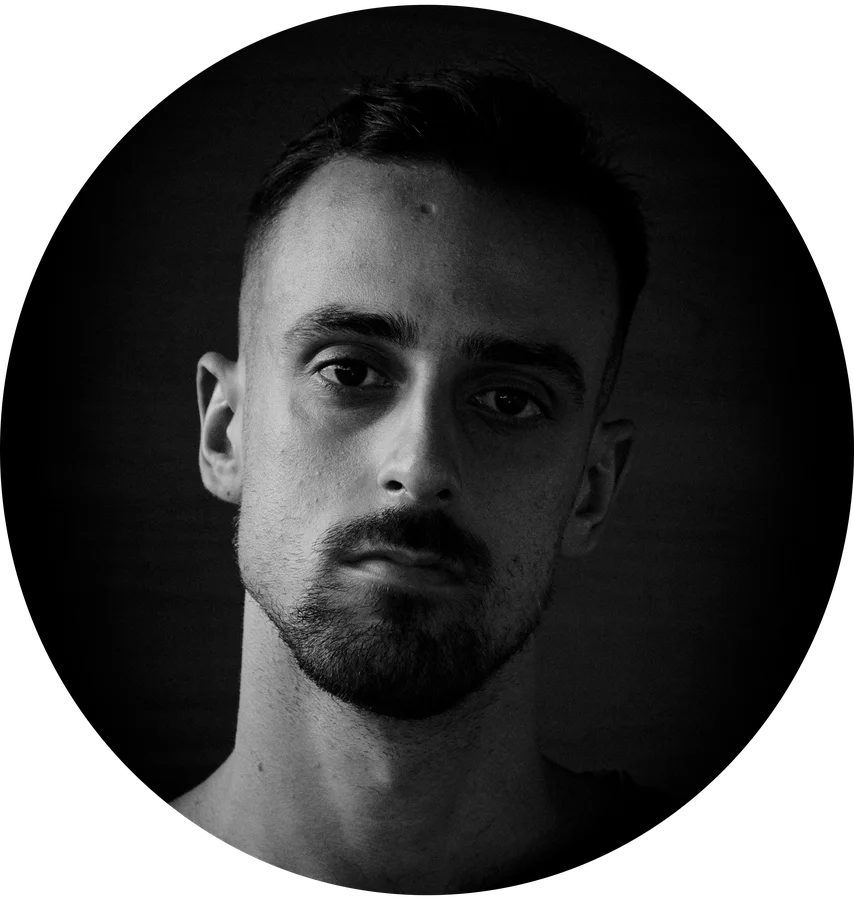
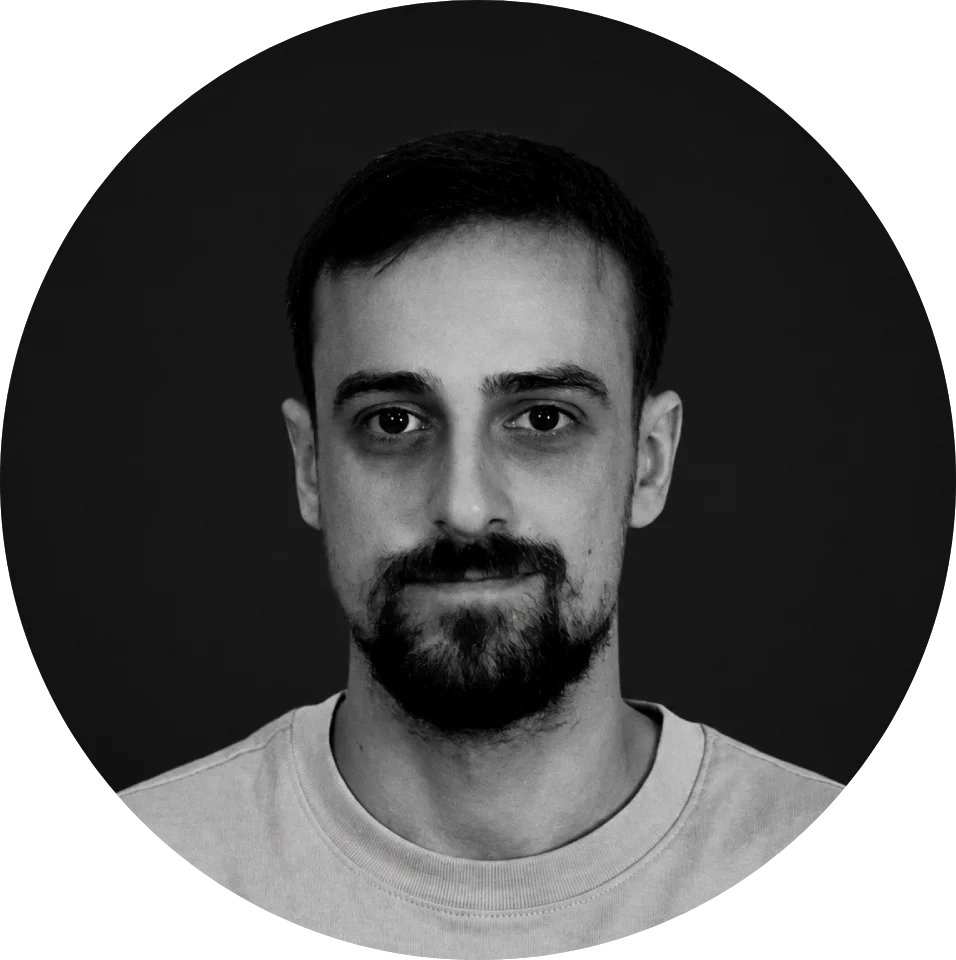
Serve the about photo as WebP and deconflict subpage titles
Performance: me.png is 903 KB and was the LCP element on both about pages,
while the 45 KB me.webp was only referenced from og:image meta tags. The
WebP was also stale (854x900 vs the PNG's 956x960), so it is regenerated
from the current PNG and the four <img> tags are wrapped in <picture>.
Explicit width/height added to reserve layout space. Verified: browsers now
fetch only the WebP, and the PNG is never requested.

SEO: about.html and contact.html both ended their title with "Original
Soundtrack Composer in Murcia", the homepage's primary keyword, so three
pages competed for one term. Each subpage now targets a distinct intent.
The Spanish pages additionally shipped English og:title/twitter:title; that
came from update_simple_pages() hardcoding the English suffix regardless of
language, so it now derives the value from the page's real <title> and the
two can no longer drift apart.

Also fixes Spanish alt text on the English homepage.

diff --git a/docs/es/about.html b/docs/es/about.html
@@ -20,18 +20,18 @@
   <link rel="alternate" hreflang="es" href="https://www.dolmosmusic.com/es/about.html" />
   <link rel="alternate" hreflang="x-default" href="https://www.dolmosmusic.com/about.html" />
 
-  <title>Sobre mí | DolmosMusic - Compositor de Bandas Sonoras en Murcia</title>
+  <title>Sobre mí | Diego Olmos, el compositor de DolmosMusic</title>
 
   <!-- Open Graph / social sharing -->
   <meta property="og:type" content="website" />
   <meta property="og:locale" content="es_ES" />
   <meta property="og:url" content="https://www.dolmosmusic.com/es/about.html" />
   <meta property="og:site_name" content="DolmosMusic" />
-  <meta property="og:title" content="Sobre mí | DolmosMusic - Original Soundtrack Composer in Murcia" />
+  <meta property="og:title" content="Sobre mí | Diego Olmos, el compositor de DolmosMusic" />
   <meta property="og:description" content="Diego Olmos (DolmosMusic), compositor y productor musical en Murcia, España." />
   <meta property="og:image" content="https://www.dolmosmusic.com/images/me.webp" />
   <meta name="twitter:card" content="summary_large_image" />
-  <meta name="twitter:title" content="Sobre mí | DolmosMusic - Original Soundtrack Composer in Murcia" />
+  <meta name="twitter:title" content="Sobre mí | Diego Olmos, el compositor de DolmosMusic" />
   <meta name="twitter:description" content="Diego Olmos (DolmosMusic), compositor y productor musical en Murcia, España." />
   <meta name="twitter:image" content="https://www.dolmosmusic.com/images/me.webp" />
 
@@ -100,7 +100,10 @@
     <div class="container-fluid">
       <div class="box">
         <div class="img-box b2">
-          <img src="../images/me.png" style="height: 320px; width: auto; margin: 30px; margin-right: 50px;" alt="Diego Olmos, compositor y productor musical en Murcia">
+          <picture>
+            <source srcset="../images/me.webp" type="image/webp">
+            <img src="../images/me.png" width="956" height="960" style="height: 320px; width: auto; margin: 30px; margin-right: 50px;" alt="Diego Olmos, compositor y productor musical en Murcia">
+          </picture>
         </div>
         <div class="detail-box">
           <h1>Sobre Diego Olmos (DolmosMusic)</h1>

diff --git a/docs/about.html b/docs/about.html
@@ -20,18 +20,18 @@
   <link rel="alternate" hreflang="es" href="https://www.dolmosmusic.com/es/about.html" />
   <link rel="alternate" hreflang="x-default" href="https://www.dolmosmusic.com/about.html" />
 
-  <title>About | DolmosMusic - Original Soundtrack Composer in Murcia</title>
+  <title>About Diego Olmos | The Composer Behind DolmosMusic</title>
 
   <!-- Open Graph / social sharing -->
   <meta property="og:type" content="website" />
   <meta property="og:locale" content="en_US" />
   <meta property="og:url" content="https://www.dolmosmusic.com/about.html" />
   <meta property="og:site_name" content="DolmosMusic" />
-  <meta property="og:title" content="About | DolmosMusic - Original Soundtrack Composer in Murcia" />
+  <meta property="og:title" content="About Diego Olmos | The Composer Behind DolmosMusic" />
   <meta property="og:description" content="Diego Olmos (DolmosMusic), composer and music producer in Murcia, Spain." />
   <meta property="og:image" content="https://www.dolmosmusic.com/images/me.webp" />
   <meta name="twitter:card" content="summary_large_image" />
-  <meta name="twitter:title" content="About | DolmosMusic - Original Soundtrack Composer in Murcia" />
+  <meta name="twitter:title" content="About Diego Olmos | The Composer Behind DolmosMusic" />
   <meta name="twitter:description" content="Diego Olmos (DolmosMusic), composer and music producer in Murcia, Spain." />
   <meta name="twitter:image" content="https://www.dolmosmusic.com/images/me.webp" />
 
@@ -100,7 +100,10 @@
     <div class="container-fluid">
       <div class="box">
         <div class="img-box b2">
-          <img src="images/me.png" style="height: 320px; width: auto; margin: 30px; margin-right: 50px;" alt="Diego Olmos, composer and music producer in Murcia">
+          <picture>
+            <source srcset="images/me.webp" type="image/webp">
+            <img src="images/me.png" width="956" height="960" style="height: 320px; width: auto; margin: 30px; margin-right: 50px;" alt="Diego Olmos, composer and music producer in Murcia">
+          </picture>
         </div>
         <div class="detail-box">
           <h1>About Diego Olmos (DolmosMusic)</h1>

diff --git a/docs/es/contact.html b/docs/es/contact.html
@@ -20,18 +20,18 @@
   <link rel="alternate" hreflang="es" href="https://www.dolmosmusic.com/es/contact.html" />
   <link rel="alternate" hreflang="x-default" href="https://www.dolmosmusic.com/contact.html" />
 
-  <title>Contacto | DolmosMusic - Compositor de Bandas Sonoras en Murcia</title>
+  <title>Contacto | Presupuesto para tu banda sonora - DolmosMusic</title>
 
   <!-- Open Graph / social sharing -->
   <meta property="og:type" content="website" />
   <meta property="og:locale" content="es_ES" />
   <meta property="og:url" content="https://www.dolmosmusic.com/es/contact.html" />
   <meta property="og:site_name" content="DolmosMusic" />
-  <meta property="og:title" content="Contacto | DolmosMusic - Original Soundtrack Composer in Murcia" />
+  <meta property="og:title" content="Contacto | Presupuesto para tu banda sonora - DolmosMusic" />
   <meta property="og:description" content="Diego Olmos (DolmosMusic), compositor y productor musical en Murcia, España." />
   <meta property="og:image" content="https://www.dolmosmusic.com/images/me.webp" />
   <meta name="twitter:card" content="summary_large_image" />
-  <meta name="twitter:title" content="Contacto | DolmosMusic - Original Soundtrack Composer in Murcia" />
+  <meta name="twitter:title" content="Contacto | Presupuesto para tu banda sonora - DolmosMusic" />
   <meta name="twitter:description" content="Diego Olmos (DolmosMusic), compositor y productor musical en Murcia, España." />
   <meta name="twitter:image" content="https://www.dolmosmusic.com/images/me.webp" />
 

diff --git a/docs/contact.html b/docs/contact.html
@@ -20,18 +20,18 @@
   <link rel="alternate" hreflang="es" href="https://www.dolmosmusic.com/es/contact.html" />
   <link rel="alternate" hreflang="x-default" href="https://www.dolmosmusic.com/contact.html" />
 
-  <title>Contact | DolmosMusic - Original Soundtrack Composer in Murcia</title>
+  <title>Contact | Get a Quote for Your Soundtrack - DolmosMusic</title>
 
   <!-- Open Graph / social sharing -->
   <meta property="og:type" content="website" />
   <meta property="og:locale" content="en_US" />
   <meta property="og:url" content="https://www.dolmosmusic.com/contact.html" />
   <meta property="og:site_name" content="DolmosMusic" />
-  <meta property="og:title" content="Contact | DolmosMusic - Original Soundtrack Composer in Murcia" />
+  <meta property="og:title" content="Contact | Get a Quote for Your Soundtrack - DolmosMusic" />
   <meta property="og:description" content="Diego Olmos (DolmosMusic), composer and music producer in Murcia, Spain." />
   <meta property="og:image" content="https://www.dolmosmusic.com/images/me.webp" />
   <meta name="twitter:card" content="summary_large_image" />
-  <meta name="twitter:title" content="Contact | DolmosMusic - Original Soundtrack Composer in Murcia" />
+  <meta name="twitter:title" content="Contact | Get a Quote for Your Soundtrack - DolmosMusic" />
   <meta name="twitter:description" content="Diego Olmos (DolmosMusic), composer and music producer in Murcia, Spain." />
   <meta name="twitter:image" content="https://www.dolmosmusic.com/images/me.webp" />
 

diff --git a/docs/es/index.html b/docs/es/index.html
@@ -293,7 +293,10 @@
     <div class="container-fluid">
       <div class="box">
           <div class="img-box b2">
-            <img src="../images/me.png" style="height: 260px; width: auto; margin: 30px;margin-right: 50px;" alt="Diego Olmos, compositor y productor musical en Murcia">
+            <picture>
+              <source srcset="../images/me.webp" type="image/webp">
+              <img src="../images/me.png" width="956" height="960" style="height: 260px; width: auto; margin: 30px;margin-right: 50px;" alt="Diego Olmos, compositor y productor musical en Murcia">
+            </picture>
           </div>
         <div class="detail-box">
           <h2>

diff --git a/docs/index.html b/docs/index.html
@@ -293,7 +293,10 @@
     <div class="container-fluid">
       <div class="box">
           <div class="img-box b2">
-            <img src="images/me.png" style="height: 260px; width: auto; margin: 30px;margin-right: 50px;" alt="Diego Olmos, compositor y productor musical en Murcia">
+            <picture>
+              <source srcset="images/me.webp" type="image/webp">
+              <img src="images/me.png" width="956" height="960" style="height: 260px; width: auto; margin: 30px;margin-right: 50px;" alt="Diego Olmos, composer and music producer in Murcia">
+            </picture>
           </div>
         <div class="detail-box">
           <h2>

diff --git a/build_and_sync.py b/build_and_sync.py
@@ -274,7 +274,9 @@ def update_simple_pages():
         if 'property="og:title"' not in c:
             page_name = 'About' if 'about' in f else 'Contact'
             page_name_es = 'Sobre mí' if 'about' in f else 'Contacto'
-            title = f"{page_name_es if lang=='es' else page_name} | DolmosMusic - Original Soundtrack Composer in Murcia"
+            # Derive from the page's real <title> so the two can never drift apart
+            title_match = re.search(r'<title>(.*?)</title>', c, flags=re.DOTALL)
+            title = title_match.group(1).strip() if title_match else f"{page_name_es if lang=='es' else page_name} | DolmosMusic"
             desc_text = "Diego Olmos (DolmosMusic), composer and music producer in Murcia, Spain." if lang=='en' else "Diego Olmos (DolmosMusic), compositor y productor musical en Murcia, España."
             loc = 'es_ES' if lang == 'es' else 'en_US'
             url_target = f"https://www.dolmosmusic.com/{f}"
